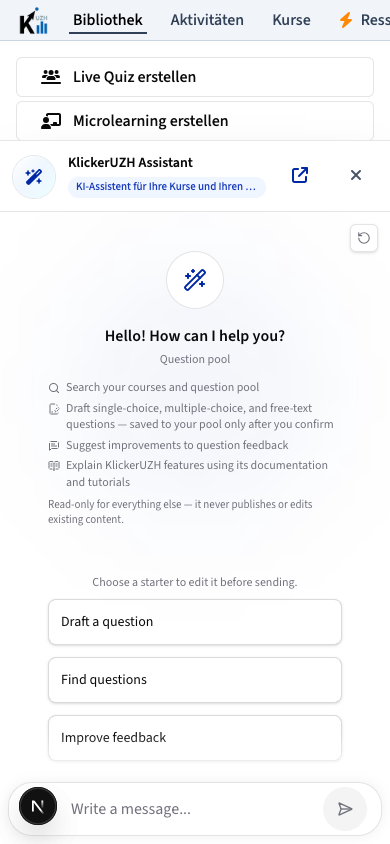
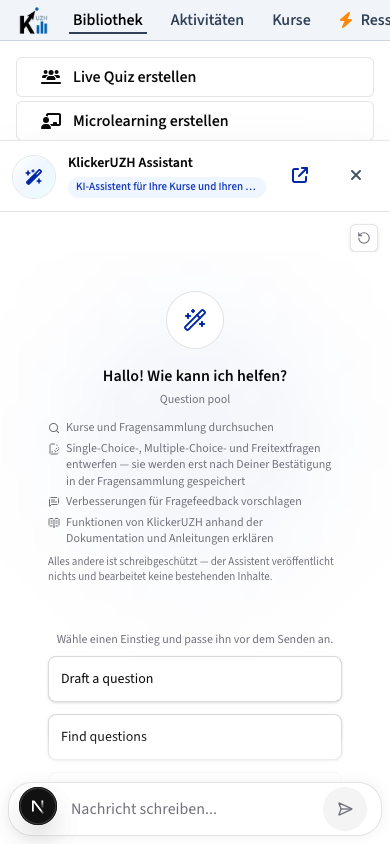
fix(chat): finalize manage assistant review UX

Changed region(s): [[0.1231, 0.3081, 0.8615, 0.8318], [0.1846, 0.955, 0.5231, 0.9858], [0.1538, 0.8626, 0.4308, 0.8934]]

diff --git a/apps/chat/src/components/manage-proposal-preview.tsx b/apps/chat/src/components/manage-proposal-preview.tsx
@@ -2,6 +2,7 @@
 
 import { Markdown } from '@klicker-uzh/markdown'
 import { CheckCircle2Icon, XCircleIcon } from 'lucide-react'
+import { useTranslations } from 'next-intl'
 import type { FC } from 'react'
 import { buildManageProposalReview } from '../services/manageProposalReview'
 import type { ManageProposalPayload } from '../services/proposalToElementInstance'
@@ -13,24 +14,31 @@ type ManageProposalPreviewProps = {
 export const ManageProposalPreview: FC<ManageProposalPreviewProps> = ({
   payload,
 }) => {
+  const t = useTranslations('chat.manageAssistant.proposalReview')
   const review = buildManageProposalReview(payload)
+  const typeLabel =
+    review.elementType === 'SC'
+      ? t('singleChoice')
+      : review.elementType === 'MC'
+        ? t('multipleChoice')
+        : t('freeText')
 
   return (
     <section
-      aria-label="Question draft review"
+      aria-label={t('reviewLabel')}
       data-cy="chat-manage-proposal-review"
       className="space-y-4 rounded-md border border-slate-200 bg-white p-3 text-sm text-slate-900"
     >
       <div className="flex flex-wrap items-center gap-2">
         <span className="rounded bg-slate-100 px-2 py-1 text-xs font-semibold text-slate-700">
-          {review.typeLabel}
+          {typeLabel}
         </span>
-        <span className="text-xs text-slate-500">Draft question</span>
+        <span className="text-xs text-slate-500">{t('draftQuestion')}</span>
       </div>
 
       <div>
         <h3 className="text-xs font-semibold uppercase tracking-wide text-slate-500">
-          Question
+          {t('question')}
         </h3>
         <div
           className="mt-1 text-base font-medium"
@@ -43,7 +51,9 @@ export const ManageProposalPreview: FC<ManageProposalPreviewProps> = ({
       {review.kind === 'choices' ? (
         <div>
           <h3 className="text-xs font-semibold uppercase tracking-wide text-slate-500">
-            {review.correctAnswerLabel}
+            {review.elementType === 'SC'
+              ? t('correctAnswer')
+              : t('correctAnswers')}
           </h3>
           <ol className="mt-2 space-y-2">
             {review.choices.map((choice) => (
@@ -74,15 +84,19 @@ export const ManageProposalPreview: FC<ManageProposalPreviewProps> = ({
                         <Markdown content={choice.value} withModal={false} />
                       </div>
                       <span className="text-xs font-semibold">
-                        {choice.correct ? 'Correct' : 'Incorrect'}
+                        {choice.correct ? t('correct') : t('incorrect')}
                       </span>
                     </div>
                     <div className="mt-2 border-t border-current/10 pt-2 text-xs text-slate-700">
-                      <span className="font-semibold">Answer feedback: </span>
+                      <span className="font-semibold">
+                        {t('answerFeedback')}:{' '}
+                      </span>
                       {choice.feedback ? (
                         <Markdown content={choice.feedback} withModal={false} />
                       ) : (
-                        <span className="text-slate-500">Not provided</span>
+                        <span className="text-slate-500">
+                          {t('notProvided')}
+                        </span>
                       )}
                     </div>
                   </div>
@@ -94,7 +108,7 @@ export const ManageProposalPreview: FC<ManageProposalPreviewProps> = ({
       ) : (
         <div>
           <h3 className="text-xs font-semibold uppercase tracking-wide text-slate-500">
-            Sample solution
+            {t('sampleSolution')}
           </h3>
           {review.solutions.length > 0 ? (
             <ol className="mt-2 list-decimal space-y-2 pl-5">
@@ -105,11 +119,11 @@ export const ManageProposalPreview: FC<ManageProposalPreviewProps> = ({
               ))}
             </ol>
           ) : (
-            <p className="mt-1 text-slate-500">Not provided</p>
+            <p className="mt-1 text-slate-500">{t('notProvided')}</p>
           )}
           {review.maxLength ? (
             <p className="mt-2 text-xs text-slate-600">
-              Maximum response length: {review.maxLength} characters
+              {t('maximumResponseLength', { maxLength: review.maxLength })}
             </p>
           ) : null}
         </div>
@@ -117,14 +131,14 @@ export const ManageProposalPreview: FC<ManageProposalPreviewProps> = ({
 
       <div>
         <h3 className="text-xs font-semibold uppercase tracking-wide text-slate-500">
-          General explanation
+          {t('generalExplanation')}
         </h3>
         {review.explanation ? (
           <div className="mt-1 text-slate-700">
             <Markdown content={review.explanation} withModal={false} />
           </div>
         ) : (
-          <p className="mt-1 text-slate-500">Not provided</p>
+          <p className="mt-1 text-slate-500">{t('notProvided')}</p>
         )}
       </div>
     </section>

diff --git a/apps/chat/src/components/manage-assistant.tsx b/apps/chat/src/components/manage-assistant.tsx
@@ -33,25 +33,6 @@ import { EmbeddedSettings } from './embedded-settings'
 import { Thread, type ThreadWelcomeCapability } from './thread'
 
 const MANAGE_ASSISTANT_NAME = 'KlickerUZH Assistant'
-const MANAGE_ASSISTANT_WELCOME = 'Hello! How can I help you?'
-const MANAGE_ASSISTANT_CAPABILITIES: ThreadWelcomeCapability[] = [
-  { icon: SearchIcon, text: 'Search your courses and question pool' },
-  {
-    icon: FilePenLineIcon,
-    text: 'Draft single-choice, multiple-choice, and free-text questions — saved to your pool only after you confirm',
-  },
-  {
-    icon: MessageSquareTextIcon,
-    text: 'Suggest improvements to question feedback',
-  },
-  {
-    icon: BookOpenTextIcon,
-    text: 'Explain KlickerUZH features using its documentation and tutorials',
-  },
-]
-const MANAGE_ASSISTANT_LIMITS_NOTE =
-  'Read-only for everything else — it never publishes or edits existing content.'
-
 export function ManageAssistant() {
   return (
     <ChatUiProvider>
@@ -61,10 +42,17 @@ export function ManageAssistant() {
 }
 
 function ManageAssistantInner() {
+  const t = useTranslations('chat.manageAssistant')
   const { embedded } = useChatUi()
   const context = useEmbeddedManageContext()
   const contextLabel = getManageContextLabel(context)
   const suggestions = getManageSuggestions(context)
+  const capabilities: ThreadWelcomeCapability[] = [
+    { icon: SearchIcon, text: t('capabilitySearch') },
+    { icon: FilePenLineIcon, text: t('capabilityDraft') },
+    { icon: MessageSquareTextIcon, text: t('capabilityFeedback') },
+    { icon: BookOpenTextIcon, text: t('capabilityDocumentation') },
+  ]
 
   return (
     <ManageAssistantRuntimeProvider context={context}>
@@ -77,14 +65,16 @@ function ManageAssistantInner() {
                 {MANAGE_ASSISTANT_NAME}
               </div>
               <div className="mt-1 inline-flex max-w-full items-center rounded-full bg-blue-50 px-2 py-0.5 text-[11px] font-medium leading-tight text-blue-800">
-                <span className="truncate">{contextLabel ?? 'Manage'}</span>
+                <span className="truncate">
+                  {contextLabel ?? t('manageContext')}
+                </span>
               </div>
             </div>
             <ManageAssistantToolbar />
           </div>
         )}
         {embedded && (
-          <div className="absolute right-3 top-3 z-10">
+          <div className="flex shrink-0 justify-end px-3 pt-3">
             <ManageAssistantToolbar />
           </div>
         )}
@@ -94,9 +84,9 @@ function ManageAssistantInner() {
           chatbotName={MANAGE_ASSISTANT_NAME}
           contextLabel={contextLabel}
           suggestions={suggestions}
-          welcomeMessage={MANAGE_ASSISTANT_WELCOME}
-          capabilities={MANAGE_ASSISTANT_CAPABILITIES}
-          limitsNote={MANAGE_ASSISTANT_LIMITS_NOTE}
+          welcomeMessage={t('welcome')}
+          capabilities={capabilities}
+          limitsNote={t('limitsNote')}
           maxImageAttachments={MAX_MANAGE_IMAGE_ATTACHMENTS}
         />
       </div>

diff --git a/playwright/tests/Y-manage-assistant.spec.ts b/playwright/tests/Y-manage-assistant.spec.ts
@@ -213,11 +213,6 @@ test.describe('Manage Assistant — Messaging', () => {
     await expect(
       welcome.getByText(/Read-only for everything else/)
     ).toHaveClass(/(^|\s)text-muted-foreground(\s|$)/)
-
-    const reset = assistant.getByTestId('manage-assistant-new-conversation')
-    await reset.click()
-    await expect(reset).not.toContainText('Start over?')
-    await expect(welcome).toBeVisible()
   })
 
   test('Manage composer accepts at most two images without changing the participant limit', async ({
@@ -269,9 +264,27 @@ test.describe('Manage Assistant — Messaging', () => {
       text: 'This answer belongs to the current conversation.',
     })
     const assistant = await openManageAssistantWidget(page)
+    const reset = assistant.getByTestId('manage-assistant-new-conversation')
+
+    await reset.click()
+    await expect(reset).not.toContainText('Start over?')
+    await expect(assistant.getByTestId('chat-welcome-message')).toBeVisible()
 
     await sendManageAssistantMessage(assistant, 'Start this conversation')
     await expect(assistant.getByTestId('chat-assistant-message')).toBeVisible()
+    const toolbarBox = await reset.boundingBox()
+    const firstMessageBox = await assistant
+      .getByTestId('chat-user-message')
+      .first()
+      .boundingBox()
+    expect(toolbarBox).not.toBeNull()
+    expect(firstMessageBox).not.toBeNull()
+    if (!toolbarBox || !firstMessageBox) {
+      throw new Error('Expected toolbar and first message bounding boxes')
+    }
+    expect(firstMessageBox.y).toBeGreaterThanOrEqual(
+      toolbarBox.y + toolbarBox.height
+    )
     const input = assistant.getByTestId('chat-composer-input')
     await expect(async () => {
       await input.evaluate((element, value) => {
@@ -297,7 +310,6 @@ test.describe('Manage Assistant — Messaging', () => {
       body.dataset.resetMarker = 'same-document'
     })
 
-    const reset = assistant.getByTestId('manage-assistant-new-conversation')
     await reset.click()
     await expect(reset).toContainText('Start over?')
     await expect(reset).toHaveAccessibleName(

diff --git a/packages/i18n/messages/de.ts b/packages/i18n/messages/de.ts
@@ -85,6 +85,35 @@ export default {
       newConversationArmed:
         'Bestätigung erforderlich: Aktiviere die Schaltfläche erneut, um eine neue Konversation zu starten.',
     },
+    manageAssistant: {
+      welcome: 'Hallo! Wie kann ich helfen?',
+      manageContext: 'Verwalten',
+      capabilitySearch: 'Kurse und Fragensammlung durchsuchen',
+      capabilityDraft:
+        'Single-Choice-, Multiple-Choice- und Freitextfragen entwerfen — sie werden erst nach Deiner Bestätigung in der Fragensammlung gespeichert',
+      capabilityFeedback: 'Verbesserungen für Fragefeedback vorschlagen',
+      capabilityDocumentation:
+        'Funktionen von KlickerUZH anhand der Dokumentation und Anleitungen erklären',
+      limitsNote:
+        'Alles andere ist schreibgeschützt — der Assistent veröffentlicht nichts und bearbeitet keine bestehenden Inhalte.',
+      proposalReview: {
+        reviewLabel: 'Fragenentwurf prüfen',
+        draftQuestion: 'Fragenentwurf',
+        question: 'Frage',
+        correctAnswer: 'Richtige Antwort',
+        correctAnswers: 'Richtige Antworten',
+        correct: 'Richtig',
+        incorrect: 'Falsch',
+        answerFeedback: 'Antwortfeedback',
+        notProvided: 'Nicht angegeben',
+        sampleSolution: 'Beispiellösung',
+        maximumResponseLength: 'Maximale Antwortlänge: {maxLength} Zeichen',
+        generalExplanation: 'Allgemeine Erklärung',
+        singleChoice: 'Single Choice',
+        multipleChoice: 'Multiple Choice',
+        freeText: 'Freitext',
+      },
+    },
     recovery: {
       notFoundTitle: 'Chatbot nicht gefunden',
       notFoundMessage:

diff --git a/packages/i18n/messages/en.ts b/packages/i18n/messages/en.ts
@@ -82,6 +82,36 @@ export default {
       newConversationArmed:
         'Confirmation required: activate again to start a new conversation.',
     },
+    manageAssistant: {
+      welcome: 'Hello! How can I help you?',
+      manageContext: 'Manage',
+      capabilitySearch: 'Search your courses and question pool',
+      capabilityDraft:
+        'Draft single-choice, multiple-choice, and free-text questions — saved to your pool only after you confirm',
+      capabilityFeedback: 'Suggest improvements to question feedback',
+      capabilityDocumentation:
+        'Explain KlickerUZH features using its documentation and tutorials',
+      limitsNote:
+        'Read-only for everything else — it never publishes or edits existing content.',
+      proposalReview: {
+        reviewLabel: 'Question draft review',
+        draftQuestion: 'Draft question',
+        question: 'Question',
+        correctAnswer: 'Correct answer',
+        correctAnswers: 'Correct answers',
+        correct: 'Correct',
+        incorrect: 'Incorrect',
+        answerFeedback: 'Answer feedback',
+        notProvided: 'Not provided',
+        sampleSolution: 'Sample solution',
+        maximumResponseLength:
+          'Maximum response length: {maxLength} characters',
+        generalExplanation: 'General explanation',
+        singleChoice: 'Single choice',
+        multipleChoice: 'Multiple choice',
+        freeText: 'Free text',
+      },
+    },
     recovery: {
       notFoundTitle: 'Chatbot not found',
       notFoundMessage:

diff --git a/apps/chat/src/services/manageProposalReview.ts b/apps/chat/src/services/manageProposalReview.ts
@@ -7,19 +7,18 @@ type ChoicesProposalReview = {
     value: string
   }>
   content: string
-  correctAnswerLabel: 'Correct answer' | 'Correct answers'
+  elementType: 'MC' | 'SC'
   explanation?: string
   kind: 'choices'
-  typeLabel: 'Multiple choice' | 'Single choice'
 }
 
 type FreeTextProposalReview = {
   content: string
+  elementType: 'FREE_TEXT'
   explanation?: string
   kind: 'freeText'
   maxLength?: number
   solutions: string[]
-  typeLabel: 'Free text'
 }
 
 export type ManageProposalReview =
@@ -32,11 +31,11 @@ export function buildManageProposalReview(
   if (payload.type === 'FREE_TEXT') {
     return {
       content: payload.content,
+      elementType: 'FREE_TEXT',
       explanation: payload.explanation,
       kind: 'freeText',
       maxLength: payload.options.restrictions.maxLength,
       solutions: payload.options.solutions ?? [],
-      typeLabel: 'Free text',
     }
   }
 
@@ -47,10 +46,8 @@ export function buildManageProposalReview(
       value: choice.value,
     })),
     content: payload.content,
-    correctAnswerLabel:
-      payload.type === 'SC' ? 'Correct answer' : 'Correct answers',
+    elementType: payload.type,
     explanation: payload.explanation,
     kind: 'choices',
-    typeLabel: payload.type === 'SC' ? 'Single choice' : 'Multiple choice',
   }
 }

diff --git a/apps/chat/test/manage-proposal-review.test.ts b/apps/chat/test/manage-proposal-review.test.ts
@@ -50,10 +50,9 @@ describe('Manage proposal review', () => {
         },
       ],
       content: 'Which process converts sugar into ethanol?',
-      correctAnswerLabel: 'Correct answer',
+      elementType: 'SC',
       explanation: 'Yeast performs alcoholic fermentation.',
       kind: 'choices',
-      typeLabel: 'Single choice',
     })
   })
 
@@ -73,11 +72,11 @@ describe('Manage proposal review', () => {
 
     expect(buildManageProposalReview(payload)).toEqual({
       content: 'Explain the central limit theorem.',
+      elementType: 'FREE_TEXT',
       explanation: 'A short conceptual explanation is sufficient.',
       kind: 'freeText',
       maxLength: 500,
       solutions: ['The sampling distribution approaches a normal shape.'],
-      typeLabel: 'Free text',
     })
   })
 })
